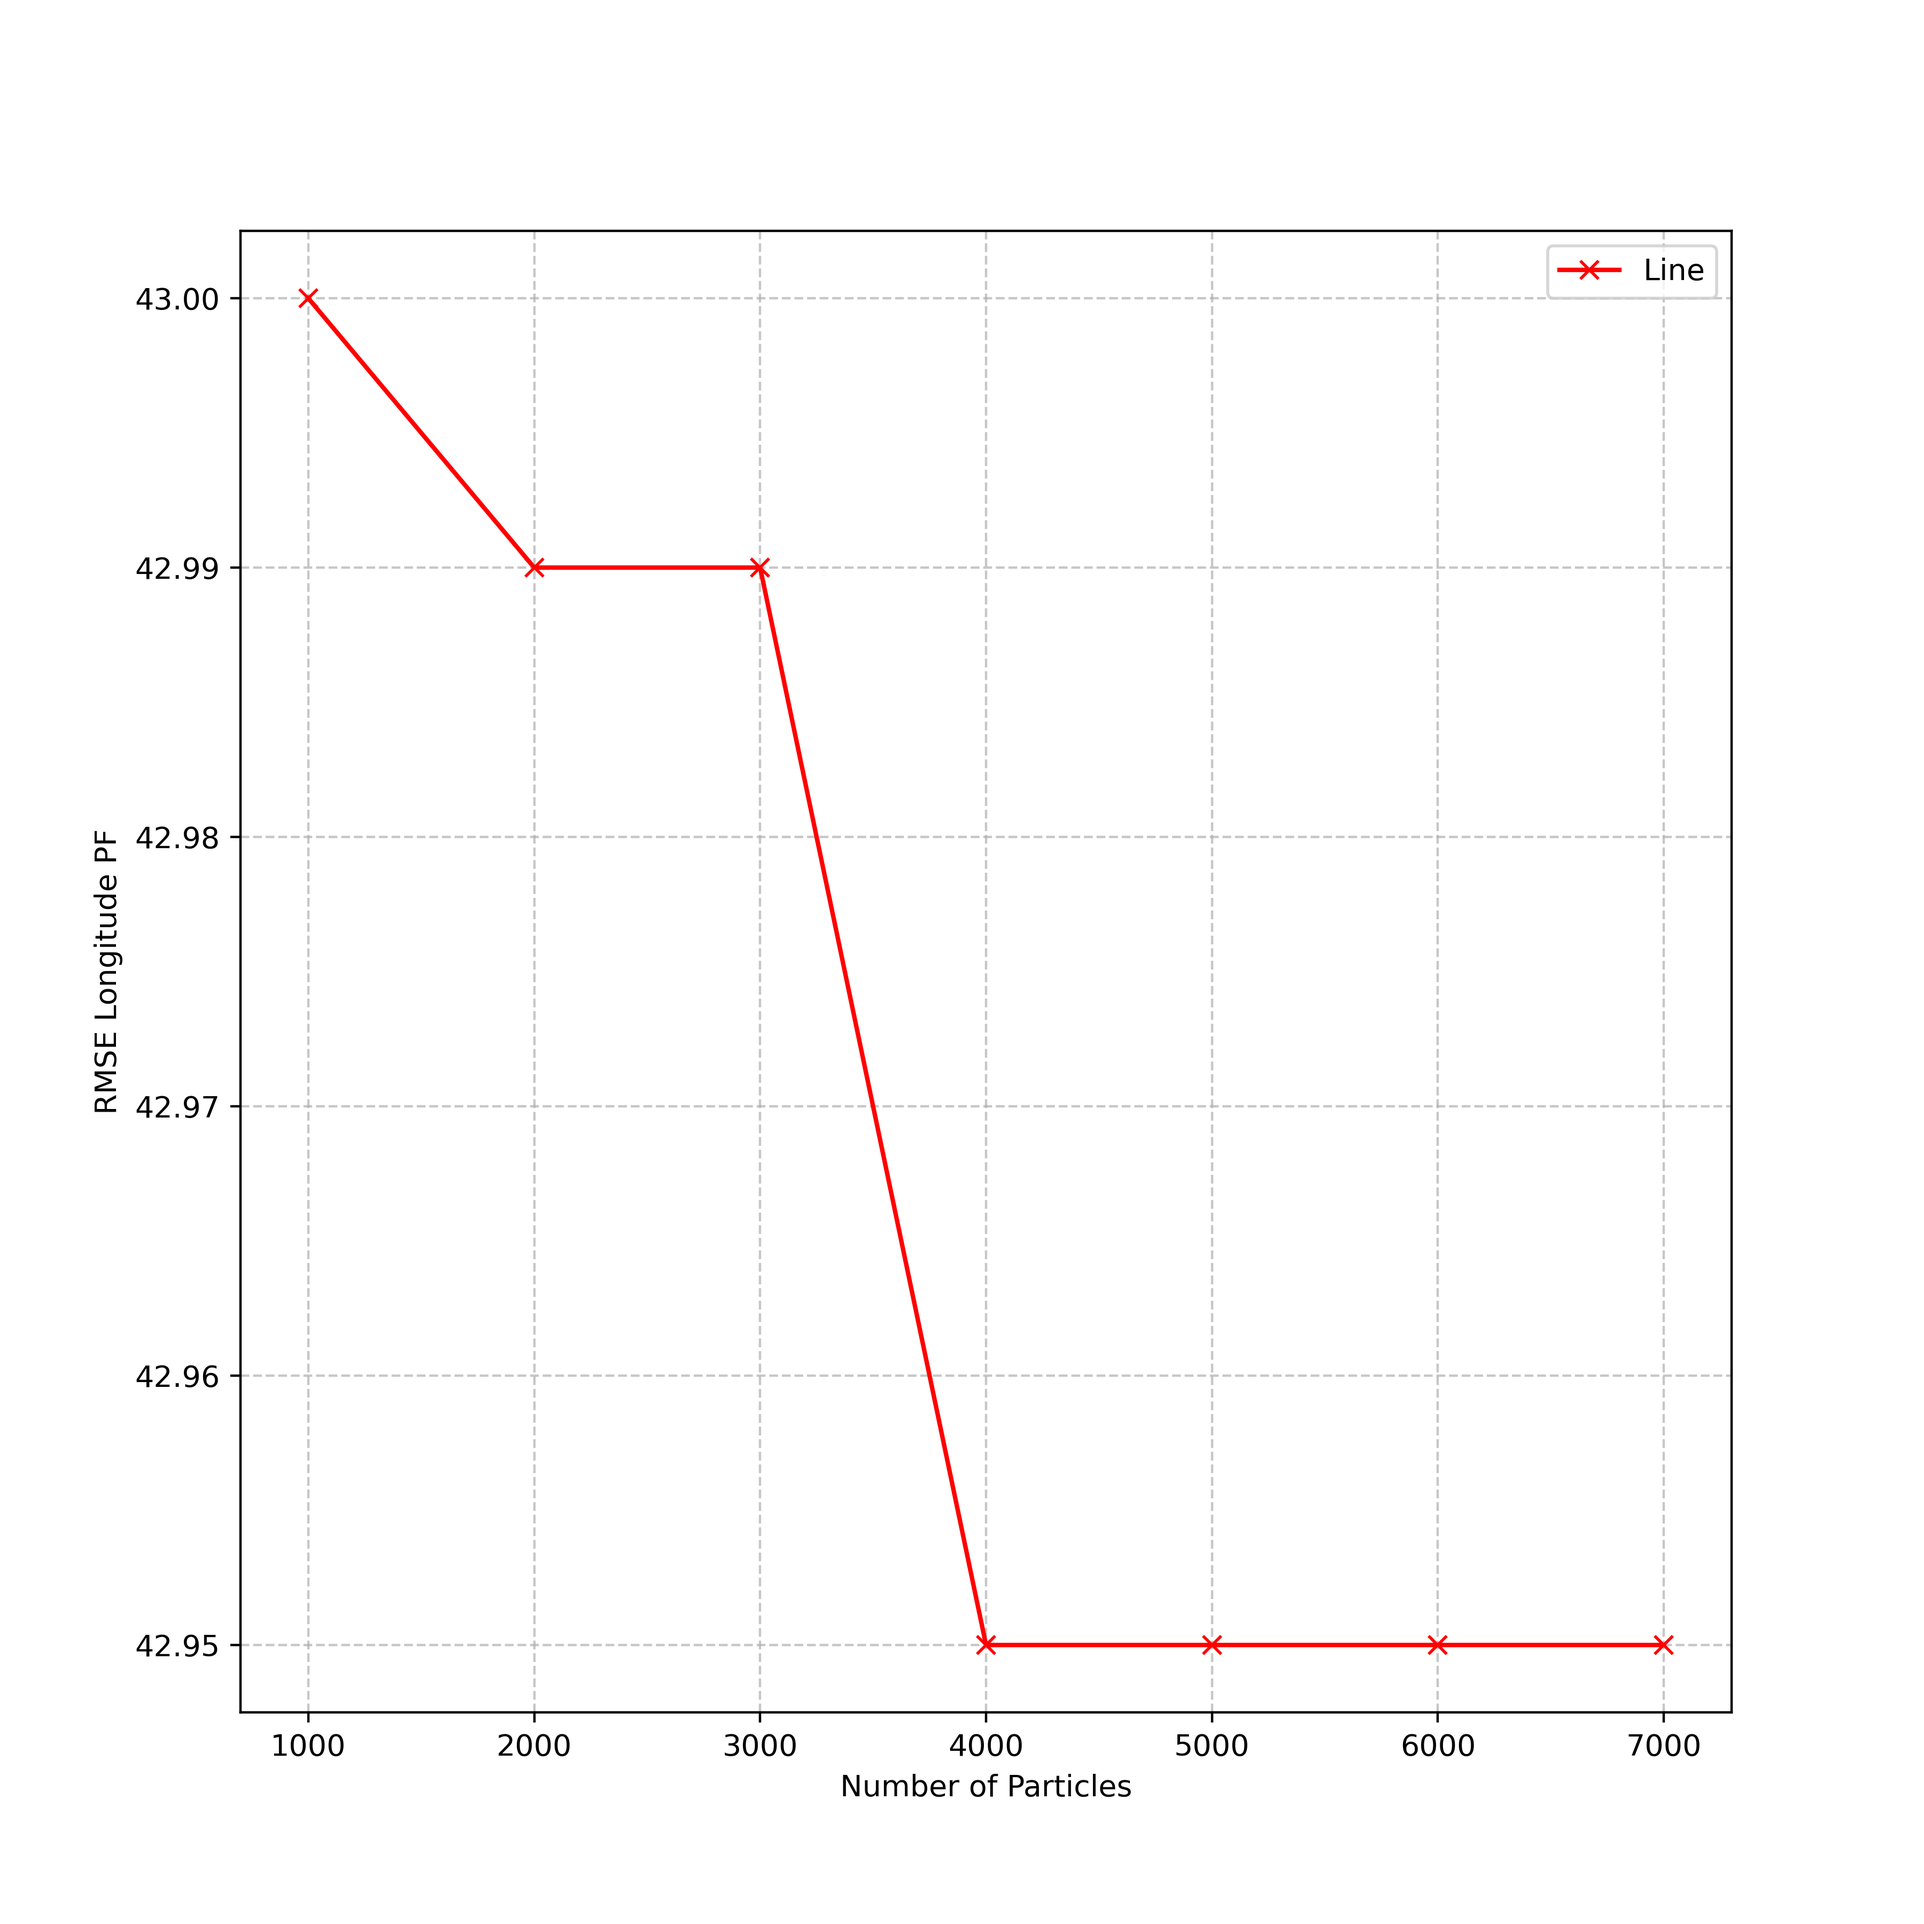
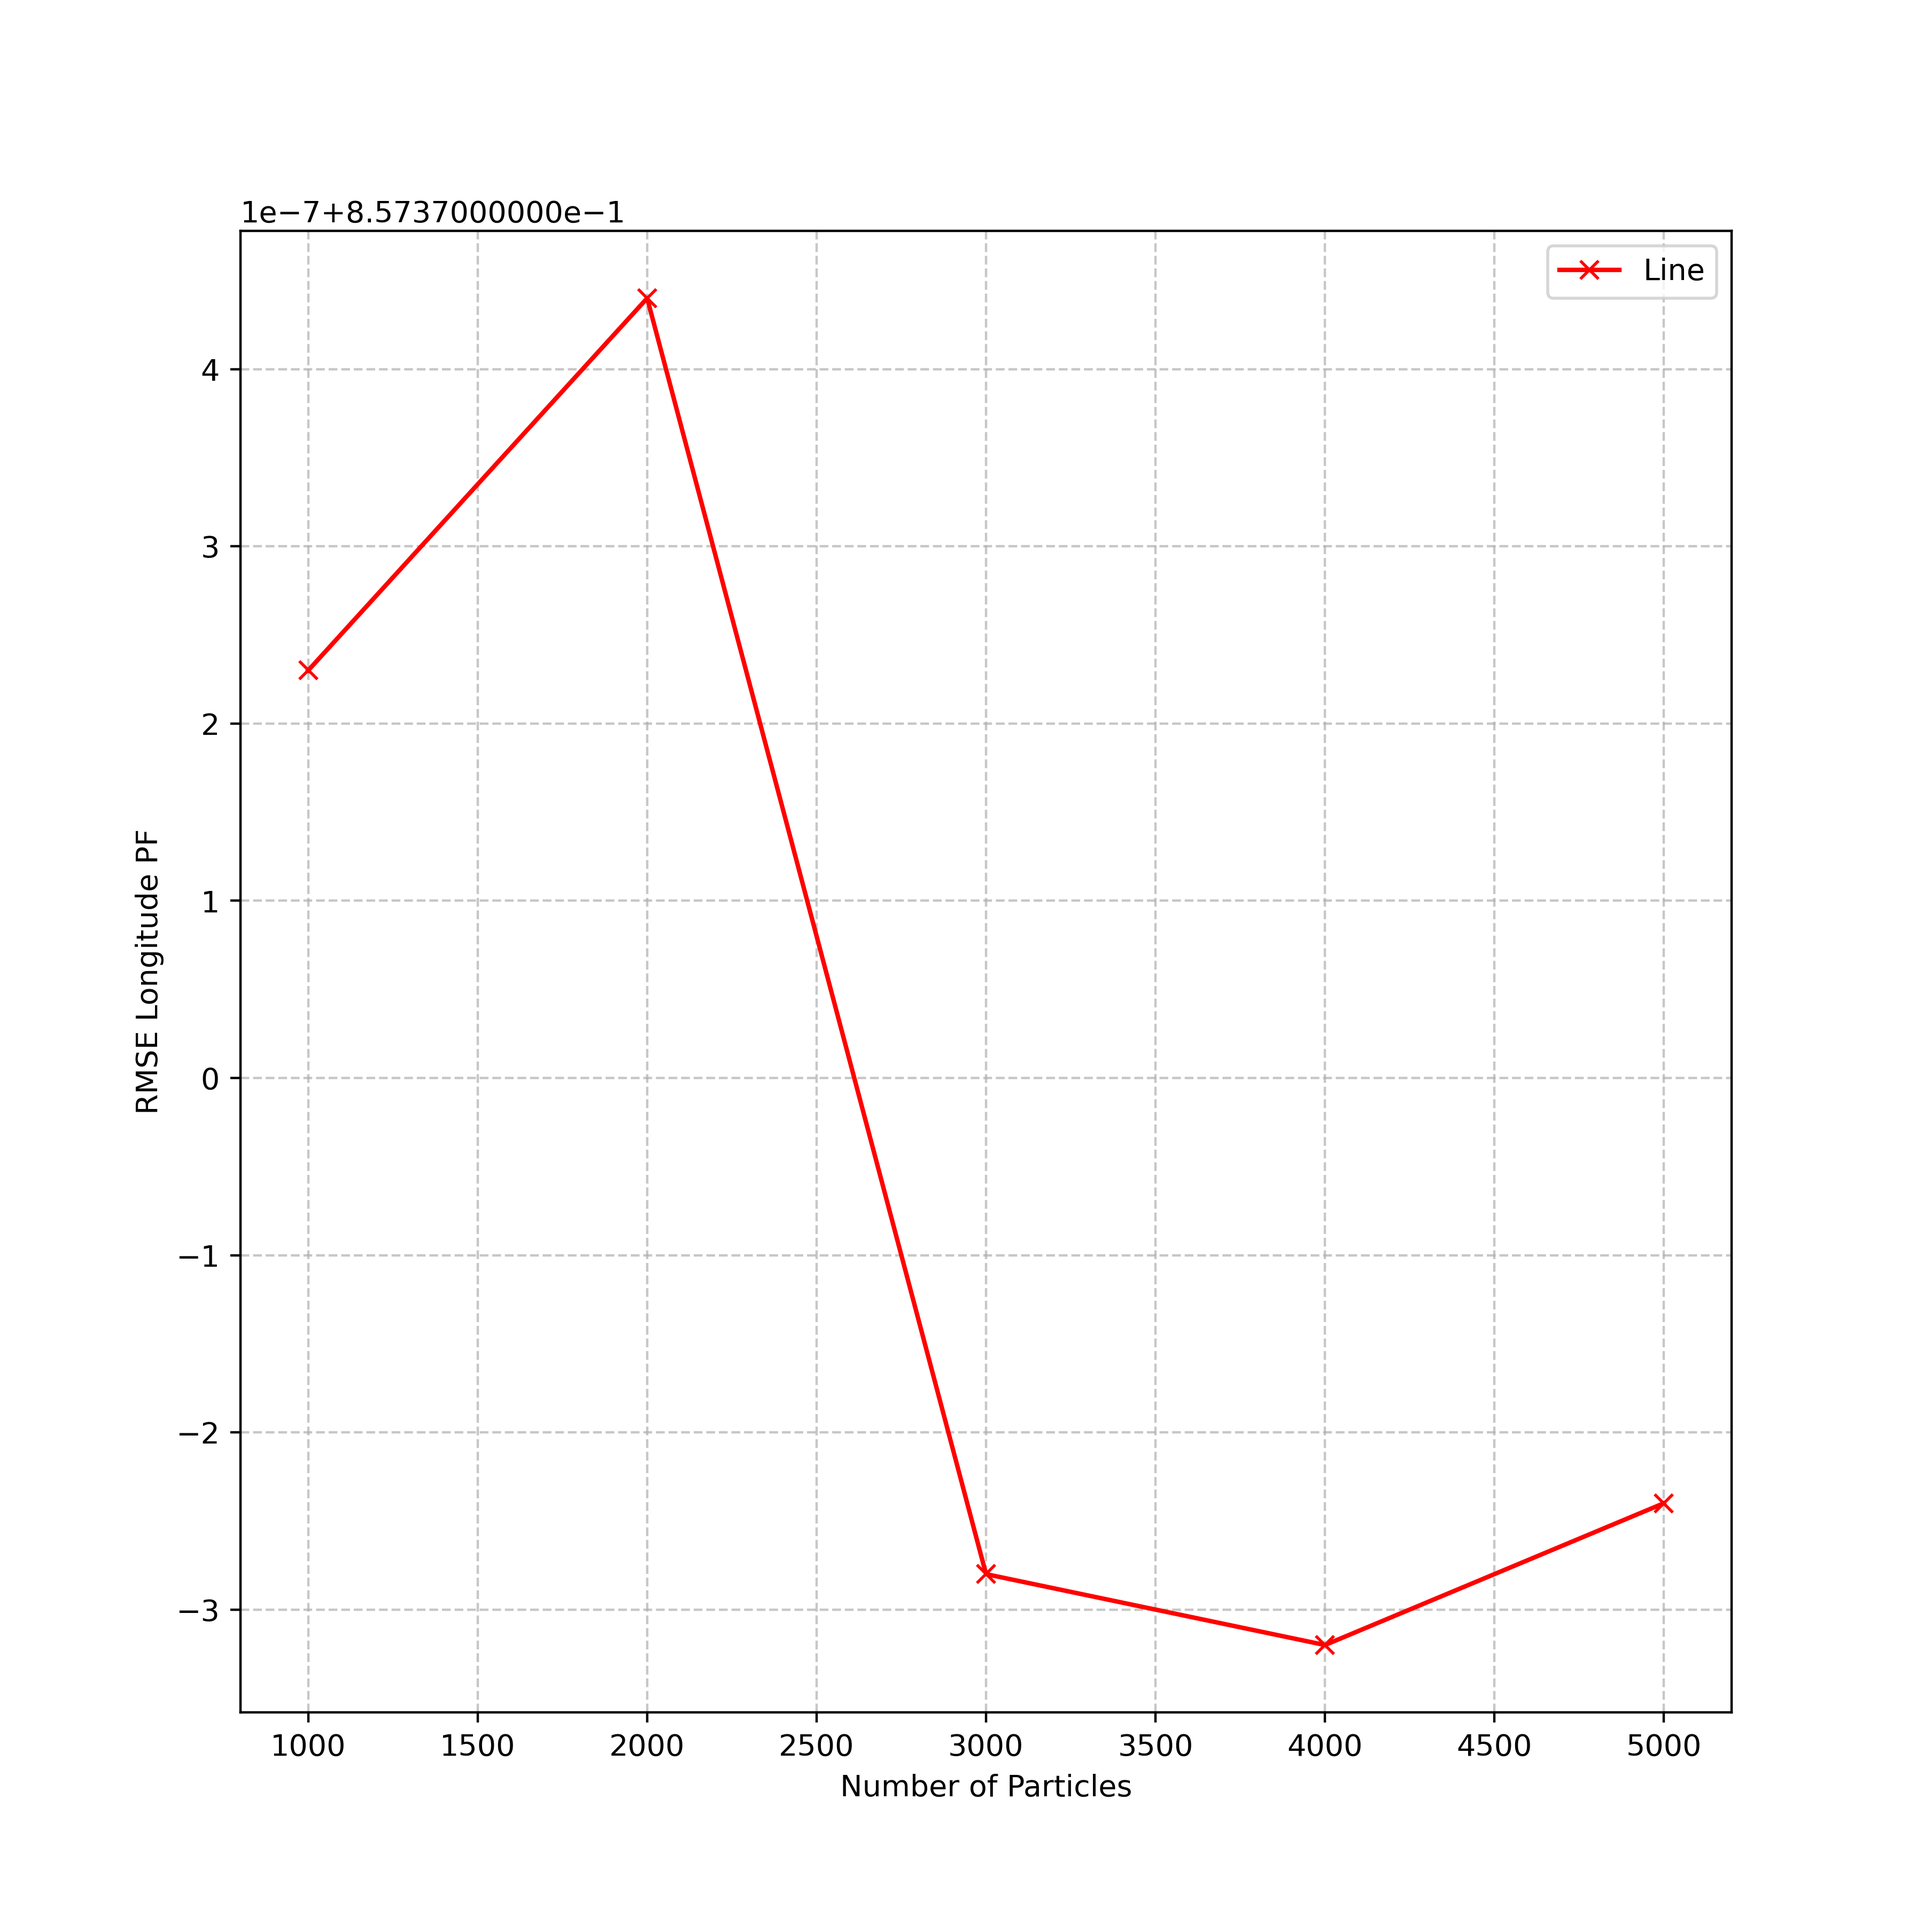
There was a major problem in PF, y error was very large. Alhumdulillah the problem has been resolved

diff --git a/PF_CUPY_v2.py b/PF_CUPY_v2.py
@@ -133,6 +133,7 @@ def particle_filter(dem_complete_Z, dem_complete_M, h_db, proc_noise_P2, particl
 
         pos = dem_complete_M[row, col].flatten()
         Lat_tercom[k] = cp.asarray(pos[0])
+        #Long_tercom[k] = cp.asarray(pos[1])*1.33
         Long_tercom[k] = cp.asarray(pos[1])
         z = cp.array([Lat_tercom[k], Long_tercom[k]])
 
@@ -187,7 +188,7 @@ def particle_filter(dem_complete_Z, dem_complete_M, h_db, proc_noise_P2, particl
         #print(et-st)
     # Calculate RMSE
     xgps = data_v4[699:750, 7].flatten()
-    ygps = data_v4[699:750, 8].flatten()
+    ygps = data_v4[699:750, 6].flatten()
 
     rmse_x = cp.sqrt(cp.mean((xgps[:50] - Lat_tercom)**2))
     rmse_y = cp.sqrt(cp.mean((ygps[:50] - Long_tercom)**2))
@@ -220,16 +221,18 @@ result4 = []
 N = [1000,2000,3000,4000,5000]
 for i in range(len(N)):
  particles = cp.random.rand(2, N[i])  # Initial particle states (2D positions)
+ particles[1]=particles[1]*24
  c = cp.array([cp.eye(2) for _ in range(N[i])])  # Covariance matrices for each particle
 
 # Noise covariances
  Qk = cp.eye(2) * 0.01  # Process noise covariance
  Rk = cp.eye(2) * 0.05  # Measurement noise covariance
+ Rk = cp.array([[0, 0.0005], [0, 0.0000004]])
 
 # Simulated GPS data
  data_v4 = Data[:,1:10]  # Random data with at least 9 columns (x/y GPS in cols 7/8)
  data_v4 = cp.asarray(data_v4)
-
+ print(data_v4[:,8]) #6.7,8
 # Run the particle filter
 #from particle_filter_module import particle_filter  # Assuming you've saved the function in a module
 #N = [1000,2000]
@@ -250,6 +253,7 @@ print(f"RMSE (y): {rmse_y}")
 print(f"RMSE PF (x): {rmse_xpf}")
 print(f"RMSE PF (y): {rmse_ypf}")
 print(et-st)
+print(ygps)
 N = [1000,2000,3000,4000,5000,6000,7000,8000]
 with open("resultspf.txt", "w") as file:
  file.write(f"The execution time per data point is: {results}\n") 
@@ -262,6 +266,8 @@ with open("resultspf.txt", "w") as file:
  file.write(f"Longitude gps is: {ygps}\n")
  file.write(f"Predicted Latitude is: {Xcorr_Lat}\n")
  file.write(f"Predicted Longitude is: {Xcorr_Lon}\n")
+ #file.write(f"The data is: {data_v4}\n")
  #file.write(f"The rmse Longitude is: {Xcorr_Lon}\n")
  #file.write(f"The rmse Latitude is: {Xcorr_Lon}\n")
+
 

diff --git a/pf_hardware_optimized_one_ms.py b/pf_hardware_optimized_one_ms.py
@@ -108,6 +108,9 @@ def particle_filter(dem_complete_Z, dem_complete_M, h_db, proc_noise_P2, particl
             Xpred = particles[:, i]
             Wk = proc_noise_P2[k].flatten()[0] * np.random.randn(2)
             F = np.eye(2)
+            F = np.array([[0, 1],
+                   [2,0,
+                   ]])
             Xpred = F @ Xpred + Wk
 
             Pk = c[i]
@@ -156,7 +159,7 @@ def particle_filter(dem_complete_Z, dem_complete_M, h_db, proc_noise_P2, particl
     rmse_xpf = np.sqrt(np.mean((ygps[:50] - Xcorr[0, :50])**2))
     rmse_ypf = np.sqrt(np.mean((xgps[:50] - Xcorr[1, :50])**2))
 
-    return rmse_x, rmse_y, rmse_xpf, rmse_ypf
+    return rmse_x, rmse_y, rmse_xpf, rmse_ypf,z
 
 import numpy as np
 import time
@@ -174,12 +177,17 @@ proc_noise_P2 = pr_noise  # Process noise values for each step
 
 # Particles and covariance matrices
 N = 1000  # Number of particles
-particles = np.random.rand(2, N)  # Initial particle states (2D positions)
+particles = np.random.rand(2, N) # Initial particle states (2D positions)
+particles[1]=particles[1]*60
 c = np.array([np.eye(2) for _ in range(N)])  # Covariance matrices for each particle
 
 # Noise covariances
 Qk = np.eye(2) * 0.01  # Process noise covariance
+Qk= np.array([[0.01, 0 ],
+                   [0,  0.1]])
 Rk = np.eye(2) * 0.05  # Measurement noise covariance
+Rk= np.array([[0.00005, 0 ],
+                   [0,  0.00005]])
 
 # Simulated GPS data
 data_v4 = Data[:,1:10]  # Random data with at least 9 columns (x/y GPS in cols 7/8)
@@ -187,7 +195,7 @@ data_v4 = Data[:,1:10]  # Random data with at least 9 columns (x/y GPS in cols 7
 # Run the particle filter
 #from particle_filter_module import particle_filter  # Assuming you've saved the function in a module
 st = time.time()
-rmse_x, rmse_y, rmse_xpf, rmse_ypf = particle_filter(
+rmse_x, rmse_y, rmse_xpf, rmse_ypf, z= particle_filter(
 dem_complete_Z, dem_complete_M, h_db_2, proc_noise_P2,
 particles, c, Qk, Rk, data_v4, N
 )
@@ -198,3 +206,4 @@ print(f"RMSE (y): {rmse_y}")
 print(f"RMSE PF (x): {rmse_xpf}")
 print(f"RMSE PF (y): {rmse_ypf}")
 print(et-st)
+print(z)

diff --git a/plotting_results_offline.py b/plotting_results_offline.py
@@ -23,8 +23,9 @@ plt.show()
 #  FIGURE 13
 # PF RMSE PLOTS
 # Line Plot
-y= [34.18,34.17,34.17,34.17,34.03,34.03,34.03]
-x = [1000,2000,3000,4000,5000,6000,7000]
+
+y=[0.06818082, 0.0679284, 0.06877679, 0.06880602, 0.06872292]
+x = [1000,2000,3000,4000,5000,]
 plt.figure(figsize=(900/100, 900/100), dpi=100)  # 900x900 pixels
 # plt.title('Figure 13')
 plt.plot(x, y, label='Line',color='red',marker='x')
@@ -43,8 +44,9 @@ plt.show()
 # pf RMSE PLOTS
 
 # Line Plot
-y= [43.00,42.99,42.99,42.95,42.95,42.95,42.95]
-x = [1000,2000,3000,4000,5000,6000,7000]
+
+y=[0.85737023,0.85737044,0.85736972,0.85736968,0.85736976]
+x = [1000,2000,3000,4000,5000]
 plt.figure(figsize=(900/100, 900/100), dpi=100)  # 900x900 pixels
 # plt.title('Figure 14')
 plt.plot(x, y, label='Line',color='red',marker='x')
